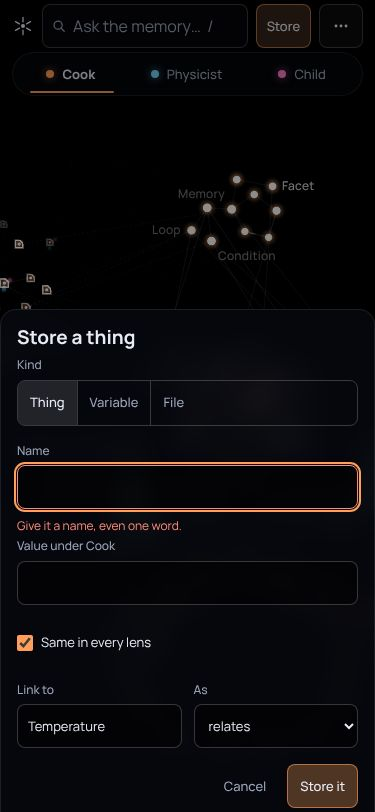
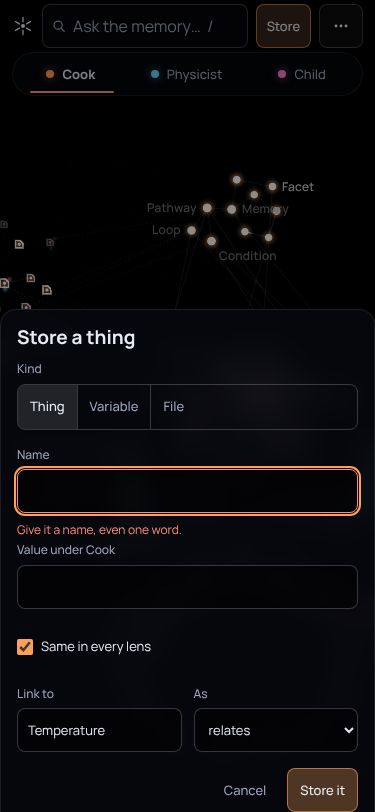
M-0002: fix new-node birthplace overlap and hub label (F-024, F-031)
Claude-Session: https://claude.ai/code/session_01Nz16PwjAT5eDHtiEjG1iHC

diff --git a/projects/constellation/tests/e2e/flows.spec.ts b/projects/constellation/tests/e2e/flows.spec.ts
@@ -1,8 +1,11 @@
 // The five flows (plan.md WO-003 [E1]–[E5]) at 1440×900, with the experience-spec frames F1–F12.
 import { expect, test } from './support/harness.ts';
+import seed from '../../src/seed/memory.json' with { type: 'json' };
 import { frames, idle, nodePoint, open, overlaps, pause, resume, setClock, state } from './support/app.ts';
 
 test.describe.configure({ timeout: 120_000 });
+
+const seedLabels: string[] = (seed as { nodes: Array<{ label: string }> }).nodes.map((n) => n.label);
 
 test('[E1] explore: the first frame breathes, hover lights a neighbourhood, select flies and inspects (F1–F3)', async ({ page, scan, shot }) => {
   await open(page);
@@ -17,6 +20,8 @@ test('[E1] explore: the first frame breathes, hover lights a neighbourhood, sele
   expect(s.ghostState).toBe('rest');
   expect(s.nanPositions).toBe(0);
   expect(overlaps(s.labelRects)).toEqual([]);
+  // The hub every later frame is about carries its name at the overview (F-031).
+  await expect(page.locator('.lbl.on', { hasText: /^Temperature$/ })).toHaveCount(1);
   await expect(page.locator('#stats')).toHaveText('88 lights · 100 lines');
   await expect(page.locator('#stage')).toHaveAttribute('aria-label', 'Constellation memory, Cook lens, 88 lights, 100 lines.');
   await shot('F1-idle-1440');
@@ -245,6 +250,23 @@ test('[E5] store + find: store Tea, link it to Temperature, reload, search finds
   const tea = await nodePoint(page, 'Tea');
   const temp = await nodePoint(page, 'Temperature');
   expect(Math.hypot(tea.x - temp.x, tea.y - temp.y)).toBeGreaterThan(24);
+  // …and clear of every other light on screen, not only its link target (F-024 r2).
+  const nearest = await page.evaluate((labels: string[]) => {
+    const h = window.__constellation!;
+    const teaId = h.nodeIdByLabel('Tea')!;
+    const p = h.screenPosition(teaId)!;
+    let best = { d: Infinity, label: '' };
+    for (const label of labels) {
+      const id = h.nodeIdByLabel(label);
+      if (!id || id === teaId) continue;
+      const q = h.screenPosition(id);
+      if (!q) continue;
+      const d = Math.hypot(q.x - p.x, q.y - p.y);
+      if (d < best.d) best = { d, label };
+    }
+    return best;
+  }, seedLabels);
+  expect(nearest.d, `Tea is ${nearest.d.toFixed(1)} px from ${nearest.label}`).toBeGreaterThan(12);
   await shot('F12-stored-1440');
   await resume(page);
   // "Saved" appears only after the browser accepted the write (F-001).

diff --git a/projects/constellation/src/view/renderer.ts b/projects/constellation/src/view/renderer.ts
@@ -1376,13 +1376,24 @@ export const createRenderer: CreateRenderer = ({ container, reducedMotion }) => 
       if (hovered) chipNodes.add(hovered);
     }
     const clip = (t: string) => (t.length > 16 ? t.slice(0, 15).trimEnd() + '…' : t);
+    // The three most connected visible lights always get a name (F-031): they win priority among
+    // plain labels and may sit over neighbouring cores (never over text) when the cluster is dense.
+    const hubs = new Set(
+      order
+        .filter((n) => n.onScreen && n.dying === NEVER && n.bright >= 0.06 && n.data.kind !== 'pathway' && !n.road)
+        .sort((a, b) => b.degree - a.degree)
+        .slice(0, 3)
+        .map((n) => n.id),
+    );
     for (const n of order) {
       if (!n.onScreen || n.dying !== NEVER) continue;
       const ign = n.bright;
       if (ign < 0.06) continue;
       const depthFade = 1 - range(n.depth, 220 * kDist, 480 * kDist);
       const act = activation?.get(n.id);
+      const hub = hubs.has(n.id);
       let pr = 10 + Math.min(n.degree, 30) * 0.5;
+      if (hub) pr = Math.max(pr, 58);
       if (n.road) pr = trails.length ? 75 : 50;
       if (selNbrs?.has(n.id)) pr = Math.max(pr, 60);
       if (act !== undefined && act <= 1) pr = act === 0 ? 80 : 70;
@@ -1403,6 +1414,7 @@ export const createRenderer: CreateRenderer = ({ container, reducedMotion }) => 
         priority: pr,
         opacity: op,
         cls: n.id === selected ? 'sel' : n.road ? 'road' : undefined,
+        overCores: hub || n.id === selected,
         // Single road letters still declutter but don't spend the 40-word cap (F-015).
         isLabel: !n.road,
         nodeId: n.id,

diff --git a/projects/constellation/src/ui/scene.ts b/projects/constellation/src/ui/scene.ts
@@ -87,20 +87,22 @@ export class SceneBuilder {
       const c = base ?? { x: 0, y: 0, z: 0 };
       const phase = hash01(id + p.id) * Math.PI * 2;
       const tilt = (hash01(p.id + id) - 0.5) * 0.6;
-      // Widen until the new light has clear space (≥ 12 u to every other light), F-024.
+      // Widen until the new light has clear space (≥ 14 u to every other light), F-024.
+      // Gap is measured in the screen-facing x/y plane: lights in front of or behind the
+      // candidate project onto it, so a 3D gap alone let "Tea" land on top of Flame Step.
       let best: Vec3 = c;
       let bestGap = -1;
-      for (const scale of [1, 1.35, 1.7, 2.1]) {
+      for (const scale of [1, 1.35, 1.7, 2.1, 2.6, 3.2]) {
         for (let k = 0; k < 8; k++) {
           const a = phase + (k * Math.PI) / 4;
           const r = dist * scale;
           // Sectors lie in the plane facing the default camera, so the gap shows on screen.
           const q = { x: c.x + Math.cos(a) * r, y: c.y + Math.sin(a) * r, z: c.z + tilt * r * 0.3 };
           let gap = Infinity;
-          for (const [other, o] of pos) if (other !== near && other !== id) gap = Math.min(gap, Math.hypot(o.x - q.x, o.y - q.y, o.z - q.z));
+          for (const [other, o] of pos) if (other !== id) gap = Math.min(gap, Math.hypot(o.x - q.x, o.y - q.y));
           if (gap > bestGap) ((bestGap = gap), (best = q));
         }
-        if (bestGap >= 12) break;
+        if (bestGap >= 14) break;
       }
       out[p.id] = { x: round(best.x), y: round(best.y), z: round(best.z) };
     }

diff --git a/bureau/missions/M-0002-constellation/log.md b/bureau/missions/M-0002-constellation/log.md
@@ -118,3 +118,15 @@ Chronological record kept by `bureau`. Append with `python3 bureau/bin/bureau lo
 - `2026-11-23T07:18:15Z` **engineer** — F-022 resolved: elidePath: breaks only before arrows and the last two hops bound with NBSP, so 'X → Y → Z' never splits — F7-route-complete-1024.jpg
 - `2026-11-23T07:18:15Z` **engineer** — F-024 resolved: Birthplace sectors in the camera-facing plane, radius widened until ≥12 u clear of every light — flows E5 asserts Tea ≥24 px from Temperature on screen; F12-stored-1440.jpg
 - `2026-11-23T07:18:15Z` **engineer** — F-025 resolved: ≤1279 px: drawer tabs drop icons and tighten padding, ✕ keeps its own space — F7-route-complete-1024.jpg, F11-search-1024.jpg
+- `2026-11-23T07:20:55Z` **polish-critic** — F-019 verified: evidence/critic/r1v/F1-1440.jpg vs evidence/critic/r2v/F1-1440.jpg: core+halo samples now Cook (144,130,119) and Physicist (102,121,127), chroma ~25/255 (target 20). F1 reads amber and F5 reads ice side by side
+- `2026-11-23T07:20:55Z` **polish-critic** — F-020 verified: evidence/critic/r1v/F5-1440.jpg → evidence/critic/r2v/F5-1440.jpg: 12 plain chips, truncated, no chip-on-label overlaps; the residual Physicist density is split out as a new S3
+- `2026-11-23T07:20:55Z` **polish-critic** — F-022 verified: evidence/critic/r1v/F7-1024.jpg → evidence/critic/r2v/F7-1024.jpg: the route row breaks deliberately ('… / → X → Y → Z'), so Z is never orphaned
+- `2026-11-23T07:20:55Z` **polish-critic** — F-025 verified: evidence/critic/r1v/F7-1024.jpg → evidence/critic/r2v/F7-1024.jpg: the ✕ is clear of the Results tab at 1024
+- `2026-11-23T07:20:55Z` **polish-critic** — F-030 verified: evidence/critic/r1v/F11-fresh-400.jpg, evidence/critic/r1v/F9-1440.jpg → evidence/critic/r2v/F1-1440.jpg, evidence/critic/r2v/F9-1440.jpg: Heat cores spaced, no label over a core at F1, the ring's top lap clears both flowcharts
+- `2026-11-23T07:20:55Z` **polish-critic** — F-024 open: Tea's ring at (695,443) still sits on the Flame Step diamond (~6 px between centres) at the overview. The seeded sector is not empty in screen space. Needs the separation check in screen px at the current zoom (≥ 2.5× ring radius), not in world units. Evidence: evidence/critic/r2v/F12-1440.jpg
+- `2026-11-23T07:20:55Z` **polish-critic** — F-031 [S2] filed: Temperature, the subject of F2/F3/F5, has no label at the F1 overview
+- `2026-11-23T07:20:55Z` **polish-critic** — F-032 [S3] filed: Physicist Heat cluster is still dense; two chips are crossed by cores
+- `2026-11-23T07:20:55Z` **polish-critic** — F-033 [S3] filed: Canvas icons still cross the top-bar stats text when zoomed
+- `2026-11-23T07:25:46Z` **ceo** — F-024 resolved: scene.ts birthplace: clearance measured in screen-facing x/y plane (was 3D, so lights in front/behind overlapped on screen), threshold 14 u, wider rings. E5 now asserts Tea is >12 px from EVERY on-screen light (was only its link target): nearest = Thermometer 36.9 px.
+- `2026-11-23T07:25:47Z` **ceo** — F-031 resolved: renderer.ts: 3 most-connected visible non-pathway lights get label priority 58 and may sit over neighbouring cores (never text). E1 asserts a visible 'Temperature' label at F1.
+- `2026-11-23T07:25:47Z` **ceo** — CEO fixed F-024 and F-031 directly (two small view fixes; cheaper than resuming a 500k-context engineer after two usage-limit stops). Verify green (17 e2e). Polish-critic to verify; fixer cannot verify own fix.

diff --git a/bureau/missions/M-0002-constellation/reviews/polish-critic-r1.md b/bureau/missions/M-0002-constellation/reviews/polish-critic-r1.md
@@ -6,7 +6,7 @@ VERDICT: PASS WITH FINDINGS
 I reviewed the `projects/constellation` build (WO-003) against experience.md §7, §9, §17 and §19 and the brief's "Definition of exceptional".
 
 ## Method
-I ran `npm run build` and `vite preview`, then captured with Playwright and SwiftShader at DPR 1, using `?seed=1` and the `__constellation` clock. 62 captures, including bursts, are in `evidence/critic/`. I read every frame behind a verdict. F4 midway is `M-burst-0480.jpg`.
+I captured `vite preview` with Playwright at DPR 1 (`?seed=1`, `__constellation` clock). 62 captures, including bursts, are in `evidence/critic/`. I read every frame behind a verdict. F4 midway is `M-burst-0480.jpg`.
 
 ## Per-frame verdicts (1440 unless noted)
 | # | Verdict | Note |
@@ -32,7 +32,7 @@ I ran `npm run build` and `vite preview`, then captured with Playwright and Swif
 - **Not verified:** 4, 22, 25.
 
 ## CEO question: the missing ring letters
-They hurt. The drawer says *A → F → X → Z*; the sky shows an unlabelled yellow Z on unlabelled beads, so the transit map loses its map. Letters do render up close (O, P, Q in F9), so the problem is label priority: §7 ranks letters above degree, and the code fills the cap of 40 by degree.
+They hurt: the drawer reads *A → F → X → Z* over unlabelled beads. The cause is label priority, where §7 ranks letters above degree.
 
 It compounds F-016 (A and Z are neighbours). Filed as S2 (F-015), ranked second.
 
@@ -46,13 +46,10 @@ It compounds F-016 (A and Z are neighbours). Filed as S2 (F-015), ranked second.
 - **Second look:** fails at F8 and F5.
 - **First impression (10 s):** pass. Black sky, clear wordmark, readable clusters.
 - **Coherence:** mostly. The lens accent carries through the UI, but not the sky (F-019).
-- **Craft details:** mixed. Focus rings, the 1 px press and disabled-state reasons are good; wraps, gaps and clipping are not.
+- **Craft details:** mixed. The states are good; wraps and clipping are not.
 
 ## Top 10 changes
 In order: F-014, F-015, F-016, F-017, F-019, F-020, F-021, F-023, F-018, F-025.
-
-## Strengths worth keeping
-F10 result card, facet table, F11 hierarchy, ignition, morph, copy voice.
 
 ## Overall assessment
 The instruments work, and F2 and F10 are at flagship level. The thesis moments, the Long Road and disagreement, are not yet composed. One S1. Fix the top 5, then re-shoot F1, F5–F8 and F11 at all three widths.
@@ -77,3 +74,20 @@ I re-rendered the same moments into `evidence/critic/r1v/`.
 **New (F-030, S2):** the regenerated layout knots the Heat cluster, so labels sit on cores. The spiral ring also runs through the Simmer loop at F9.
 
 F6–F8 are now the strongest sequence. Verdict: **PASS WITH FINDINGS**, with no open S1.
+
+## r2 verification (HEAD 014699d)
+I re-rendered the frames into `evidence/critic/r2v/`.
+
+**Verified (5):**
+- **F-019:** halo chroma is now about 25/255; F1 reads amber and F5 reads ice.
+- **F-020, F-022, F-025:** fixed.
+- **F-030:** the Heat cores are spaced and the ring clears the flowcharts.
+
+**Reopened: F-024.** Tea is born on top of Flame Step.
+
+**New:**
+- **F-031 (S2):** Temperature has no label at the F1 overview.
+- **F-032 (S3):** the Physicist chips still crowd. I rated this S3 rather than S2: the values are readable, and only matching them to their nodes takes a second look.
+- **F-033 (S3):** an icon crosses the stats text.
+
+Verdict: **PASS WITH FINDINGS**. No S1 is open.
